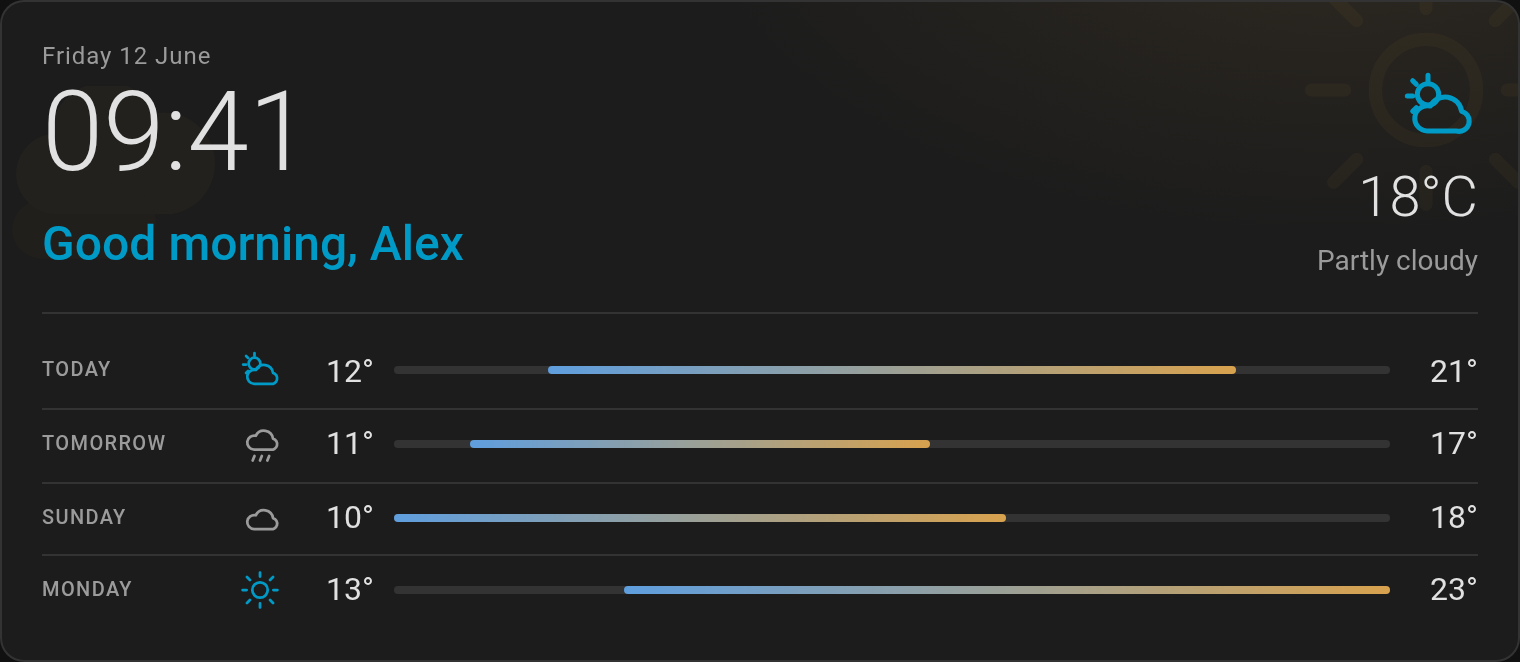
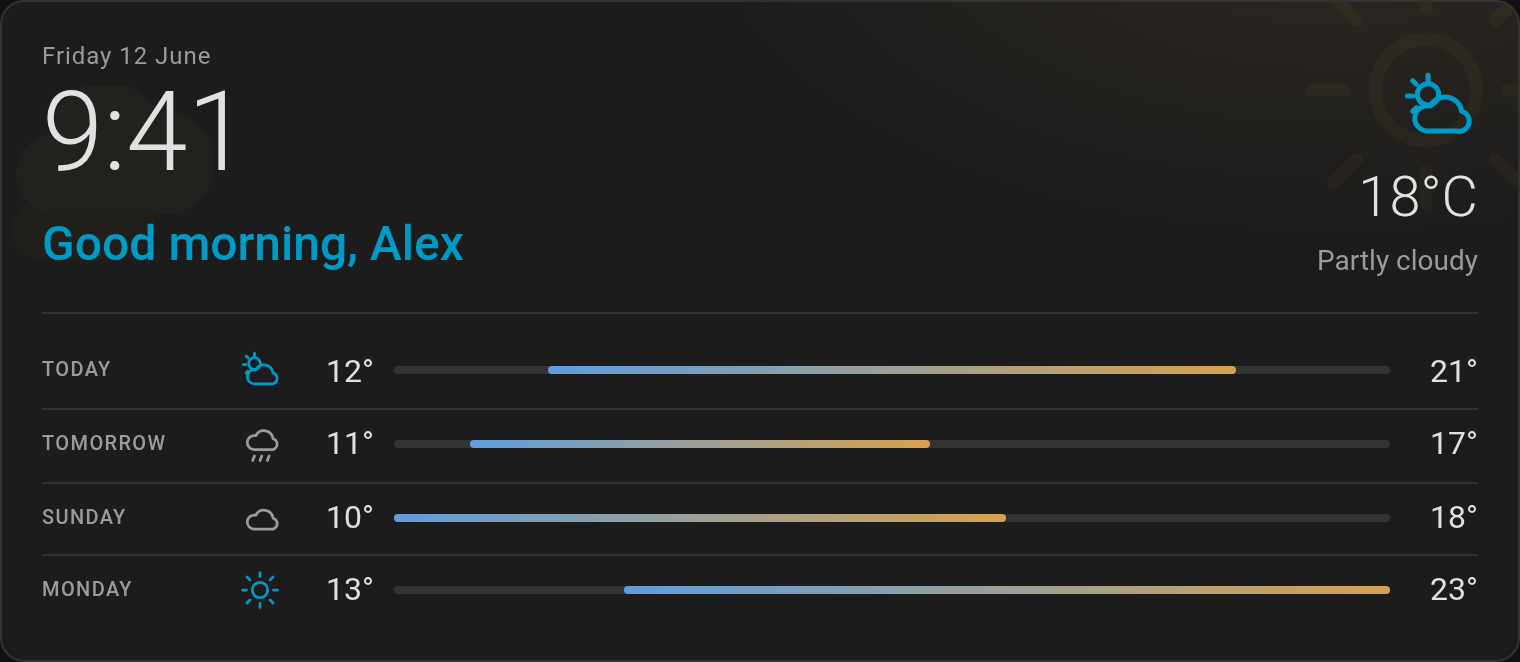
The clock follows the time format in the Home Assistant profile, including Auto and System, and writes hours the way Home Assistant does

Changed region(s): [[0.0309, 0.1208, 0.2164, 0.2719]]

diff --git a/home-info-card.js b/home-info-card.js
@@ -523,11 +523,26 @@ class HomeInfoCard extends HTMLElement {
     return (this._hass && this._hass.locale && this._hass.locale.language) || "en-GB";
   }
 
+  /* The profile's time format, read the way Home Assistant's own cards read
+   * it: 12 or 24 as chosen, and for "language" or "system" whatever that
+   * language, or the browser, does with ten in the evening. */
   _use24h() {
-    const fmt = this._hass && this._hass.locale && this._hass.locale.time_format;
-    if (fmt === "12") return false;
-    if (fmt === "24") return true;
-    return true;
+    const l = (this._hass && this._hass.locale) || {};
+    if (l.time_format === "12") return false;
+    if (l.time_format === "24") return true;
+    const lang = l.time_format === "system" ? undefined : this._locale();
+    /* Asked once per answer: toLocaleString builds a formatter, and this
+     * runs on every update. */
+    const key = `${l.time_format}|${lang}`;
+    if (this._h24Key !== key) {
+      this._h24Key = key;
+      try {
+        this._h24 = !new Date(2023, 0, 1, 22).toLocaleString(lang).includes("10");
+      } catch (err) {
+        this._h24 = true;
+      }
+    }
+    return this._h24;
   }
 
   _build() {
@@ -930,9 +945,9 @@ class HomeInfoCard extends HTMLElement {
     if (face !== this._face) {
       this._face = face;
       this._els.time.textContent = dateFormat(`hm|${h12 ? 12 : 24}`, locale, {
-        hour: "2-digit",
+        hour: "numeric", // "7:00 PM" in 12 hours, as Home Assistant writes it
         minute: "2-digit",
-        hour12: h12,
+        hourCycle: h12 ? "h12" : "h23",
       }).format(now);
       this._els.date.textContent = dateFormat("full", locale, {
         weekday: "long",
